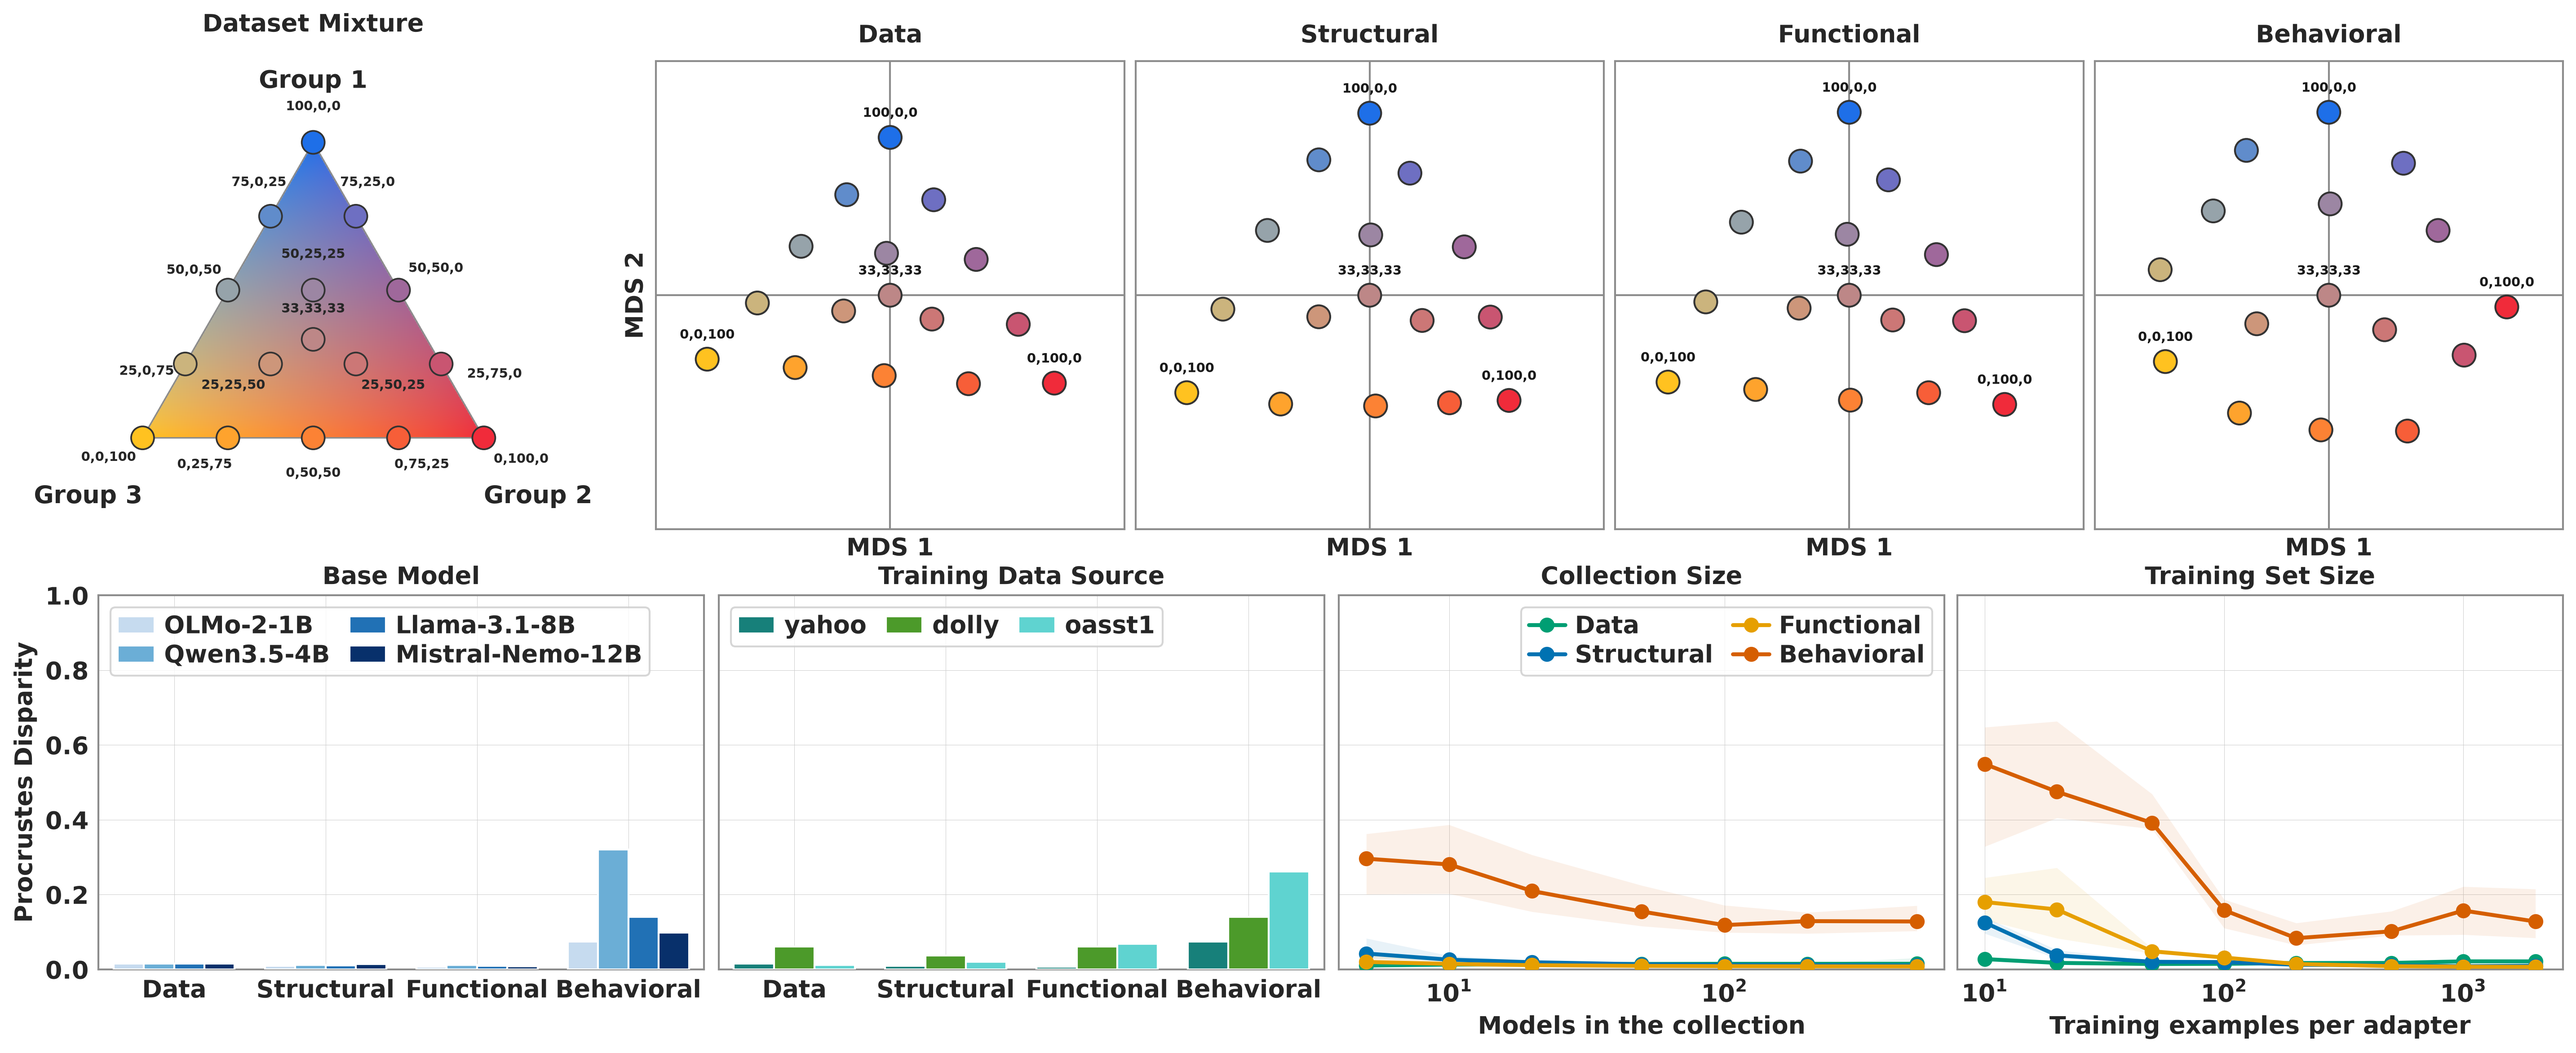
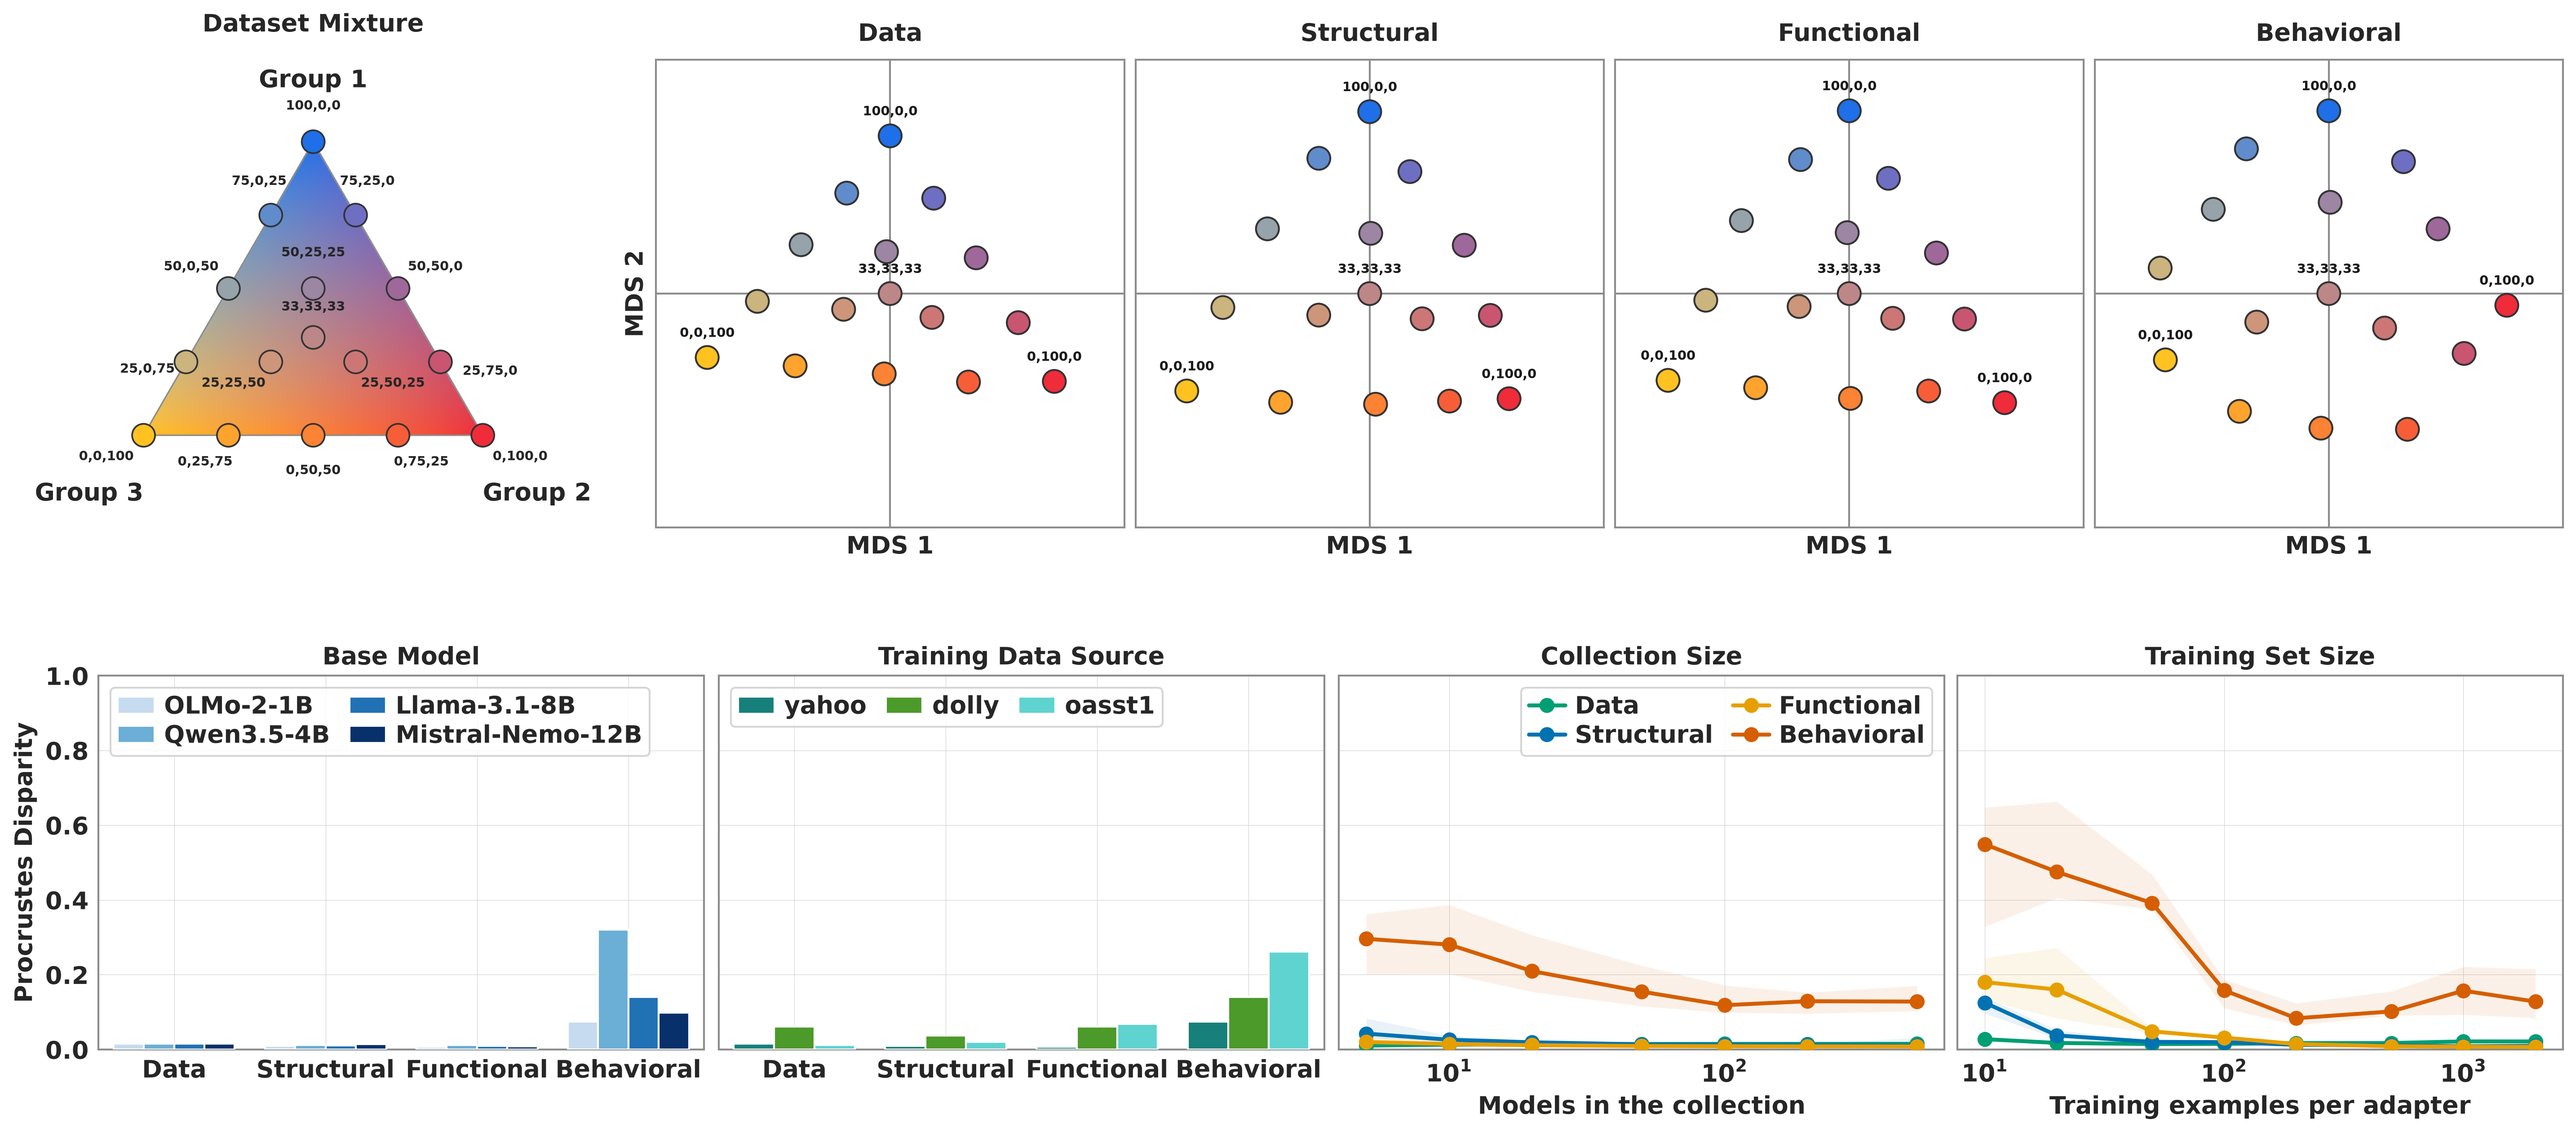
fix(figure2): make ROW_GAP actually separate the rows
The engine's hspace is inert across a nesting boundary, and each row
here is a nested gridspec, so setting it moved nothing. Spend the gap
as a blank spacer row in the outer grid instead, in inches.

Claude-Session: https://claude.ai/code/session_013wT22QHA98vYoz6C7ZiiGN

diff --git a/figures/figure2/make_figures.py b/figures/figure2/make_figures.py
@@ -587,11 +587,15 @@ def draw_sweep(ax, which: str, levels: list[Level], legend: bool) -> None:
 #: top of a panel this tall once every piece of text is at one size.
 YLABEL = "Procrustes Disparity"
 
-#: The gap between the two rows, as a fraction of the figure's height. The rows
-#: read as separate statements -- one figure repeated at four levels, then four
-#: ways that figure moves -- so they get far more air between them than the
-#: constrained layout's 0.02 default leaves. This is the one knob for it.
-ROW_GAP = 0.16
+#: The gap between the two rows, **in inches**. The rows read as separate
+#: statements -- one figure repeated at four levels, then four ways that figure
+#: moves -- so they get far more air between them than a default layout leaves.
+#: This is the one knob for it.
+#:
+#: It is spent as a blank spacer row in the outer grid, not as the constrained
+#: layout's ``hspace``: each row here is a *nested* gridspec, and the engine's
+#: ``hspace`` is inert across a nesting boundary -- setting it moves nothing.
+ROW_GAP = 0.6
 
 #: Shared y range for the whole bottom row, per scale. Fixed rather than fitted
 #: so any two builds of this figure — the ``--behavioral`` and ``--yscale``
@@ -726,19 +730,19 @@ def build(row: str, decoding: str, yscale: str = "log",
     #: rows are given different heights rather than one shared one.
     top_h, bottom_h = 4.1, 3.6
     width = 19.0
-    height = (top_h if want_top else 0) + (bottom_h if want_bottom else 0)
+    both = want_top and want_bottom
+    gap = ROW_GAP if both else 0.0
+    heights = [h for h, want in [(top_h, want_top), (gap, both),
+                                 (bottom_h, want_bottom)] if want]
+    height = sum(heights)
     fig = plt.figure(figsize=(width, height), layout="constrained")
-    fig.get_layout_engine().set(hspace=ROW_GAP)
-    outer = fig.add_gridspec(
-        sum([want_top, want_bottom]), 1,
-        height_ratios=[h for h, want in [(top_h, want_top), (bottom_h, want_bottom)]
-                       if want])
+    outer = fig.add_gridspec(len(heights), 1, height_ratios=heights)
 
     r = 0
     if want_top:
         draw_top_row(fig, outer[r].subgridspec(1, 5, width_ratios=[1.28] + [1.0] * 4),
                      top_levels, cells, ids)
-        r += 1
+        r += 2 if both else 1
     if want_bottom:
         draw_bottom_row(fig, outer[r].subgridspec(1, 4), bar_levels,
                         sweep_levels, yscale)
